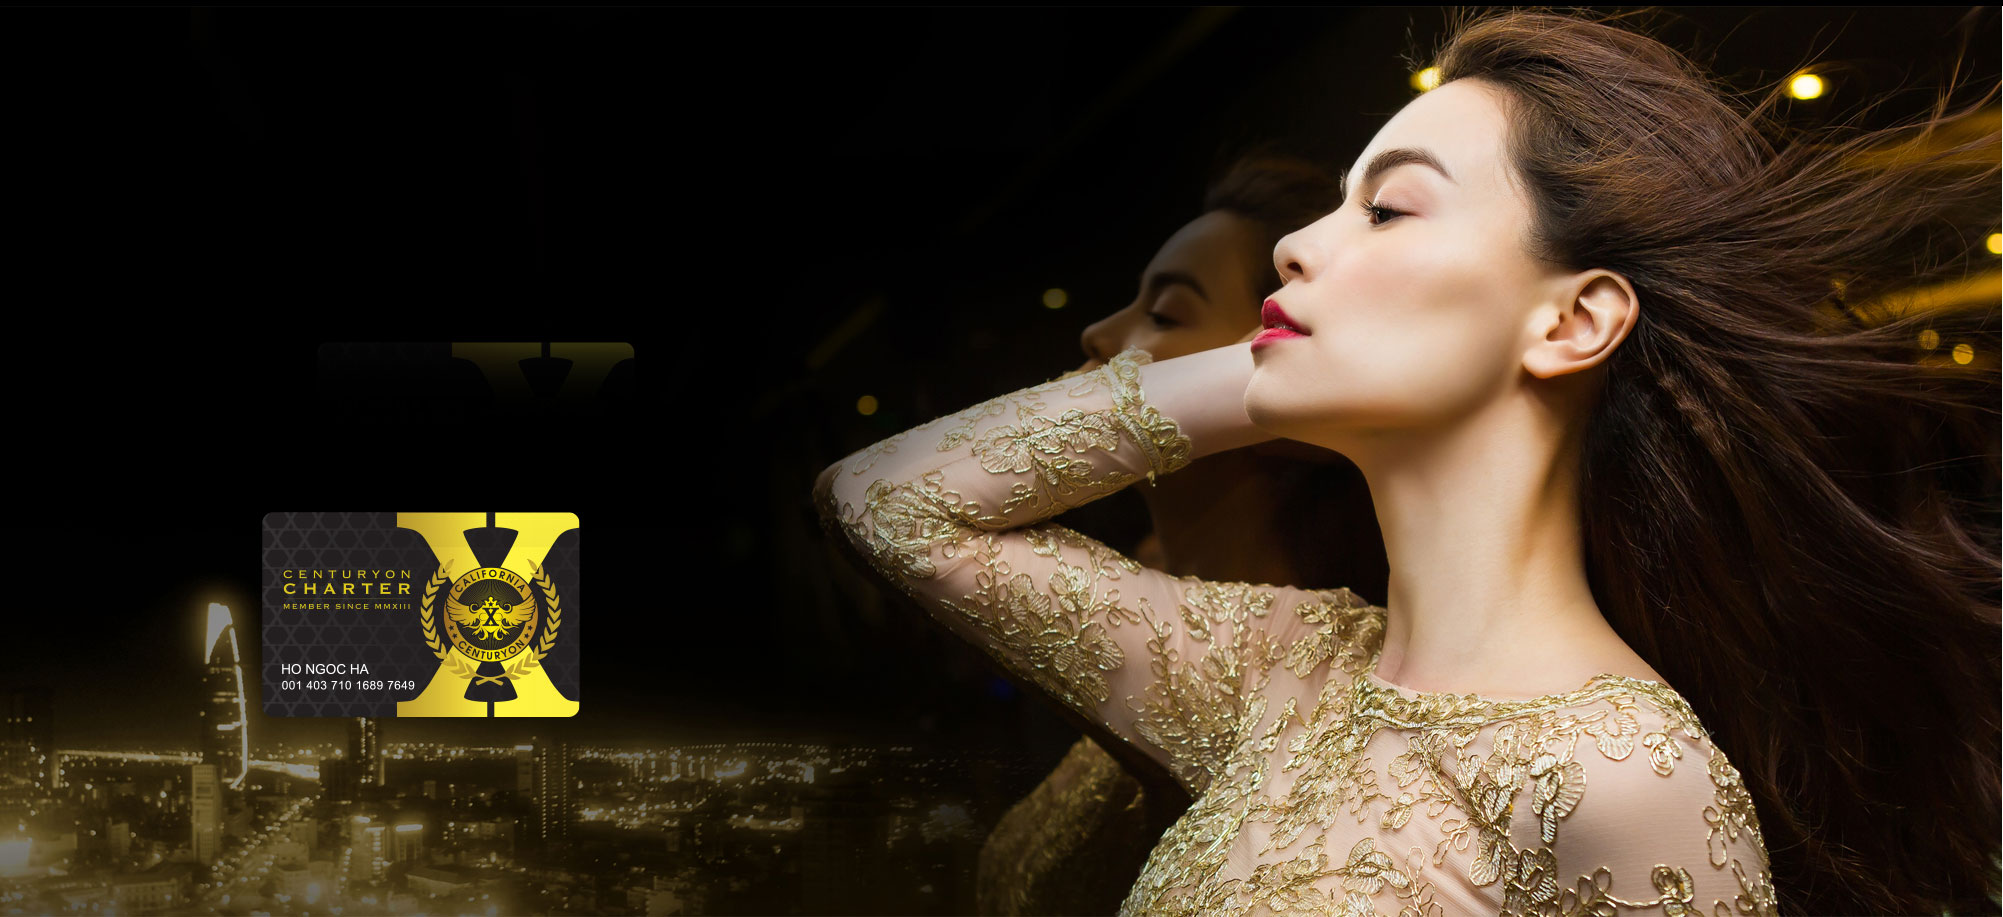
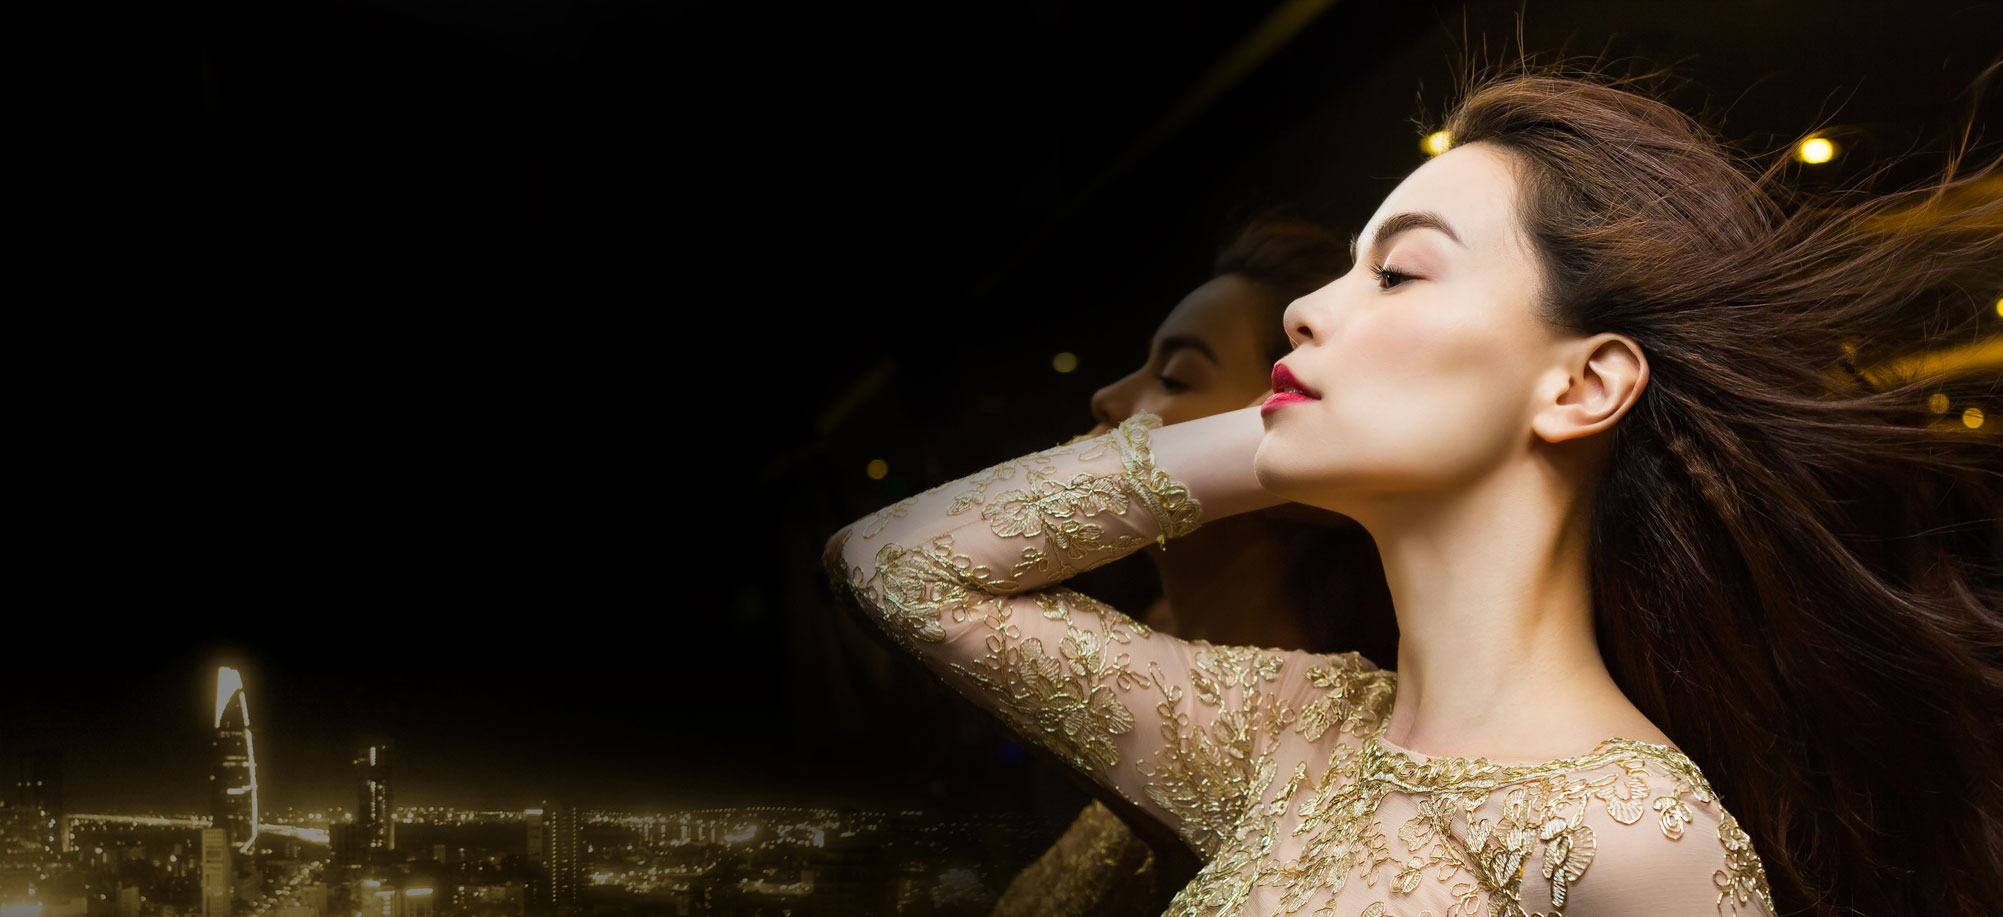
fixes

diff --git a/users/SongPham/cfyc/app/stylesheets/files/centuryon-membership.scss b/users/SongPham/cfyc/app/stylesheets/files/centuryon-membership.scss
@@ -2,9 +2,22 @@
 .container-fluid.page.centuryon-membership-cfy-page {
 	background-color: #000 !important;
 	color: #fff;
+	.mobile {display: none;
+		@media (max-width:767px) {
+			display: block;
+		}
+	}
+	.desktop {
+		@media (min-width:768px) {
+			display: block;
+		}
+		@media (max-width:767px) {
+			display: none;
+		}
+	}
 	h2 {color: #f7e300; font-weight: 100; font-size: 25px; text-align: center; padding: 10px 0; text-transform: uppercase; border-bottom: 0px;line-height: 1.2em;}
 	.divider {margin: 20px 0;}
-	h4 {color: #f7e300; font-weight: 100; font-size: 25px;}
+	h4 {color: #f7e300; font-weight: 100; font-size: 25px; margin: 20px auto;}
 	img.quote-left {
 		position: absolute; left:3%; top:22%; width: 40px;
 
@@ -18,12 +31,12 @@
 	.text-box { max-width: 90%; margin: 0 auto;}
 
 	.row.banner-top {
-		@media (min-width:568px){
+		@media (min-width:768px){
 		background:#000 url(../img/centuryon-membership/centuryon-membership-header.jpg) center top no-repeat;
 		position: relative;
 		background-size: 100%; min-height: 550px;
 		}
-		   @media (max-width: 567px) {
+		   @media (max-width: 767px) {
 		   min-height: 600px;
 		   position: relative;
 		   background:#000 url(../img/centuryon-membership/m-centuryon-membership-header.jpg) center top no-repeat;
@@ -33,6 +46,9 @@
 		   min-height: 600px;
 		   background:#000 url(../img/centuryon-membership/m-centuryon-membership-header.jpg) center top no-repeat;
 		   background-size: contain;
+		   }
+		   @media (max-width:320px) {
+			   min-height: 500px;
 		   }
 		.cta {
 			max-width: 40vw;
@@ -44,6 +60,7 @@
 			width: 100%;
 			max-width: 500px;
 			margin-left: auto;
+			margin: 75% auto 0px auto;
 
 			padding: 0 10px;
 			position: relative;
@@ -54,6 +71,9 @@
 				position: absolute;
 
 				bottom: 0px;
+			 }
+			 @media (max-width:320px) {
+				 
 			 }
 
 		 fieldset {
@@ -132,7 +152,7 @@
 	            }
 	        }
 		}
-
+		.card {margin: 50px auto; width: 50%;}
 	}
 
 	.row.video {
@@ -146,12 +166,14 @@
 	}
 
 	.row.section3 {
-		background: url(../img/centuryon-membership/section1-bg.jpg) 0 205px no-repeat; background-size:100%;
+		background: url() center top no-repeat; background-size:100%;
+		
 		.col-md-10.col-centered {
 		p {text-align: center; text-transform: uppercase;}
 		}
 		.content {
-			margin: 200px auto 0px auto; background:none; background: rgba(0,0,0, .6); width: 75%;position: relative; padding:50px 20px;
+			margin:20px auto 0px auto; background:none; background: rgba(0,0,0, .6); width: 75%;position: relative; padding:50px 20px;
+			h4 {color: $white;}
 			}
 		}
 
@@ -230,8 +252,8 @@
 		}
 
 	.row.section3 {
-		background: url(../img/centuryon-membership/m-section1-bg.jpg) 0 255px no-repeat; background-size:100%;
-	.content { margin: 100px auto 0px auto; width: 100%;
+		background: url() center top no-repeat; background-size:100%;
+	.content { margin: 20px auto 0px auto; width: 100%;
 	h4 { padding-top: 20px;}
 
 	}
@@ -273,7 +295,7 @@
 .container-fluid.page.centuryon-membership-cfy-page {
 	.row.section3 {
 
-		.content { margin: 200px auto 0px auto; width: 100%; padding: 0px 10px 20px 10px;
+		.content { margin: 20px auto 0px auto; width: 100%; padding: 0px 10px 20px 10px;
 			img.quote-left {left:0%; top:0%; ;}
 			img.quote-right {right:3%; bottom:9%;}
 			}

diff --git a/users/SongPham/cfyc/pages/centuryon-memberships.php b/users/SongPham/cfyc/pages/centuryon-memberships.php
@@ -53,6 +53,7 @@
 	                <a class="" href="<?php echo USER_BASE_URL ?>/vip-members<?php echo getSuffix('lang=' . $LANG) ?>" title="Discover Cali Dance"><?php echo LANG_CENTURYON_MEMBERSHIPS_BANNER_CTA ?> </a>
 	                </div>
 	        </fieldset>
+	        <img src="<?php echo USER_BASE_URL ?>/img/centuryon-membership/centuryon-card.jpg" class="desktop img-responsive card">
 		</div>
 	</div>
 
@@ -96,12 +97,14 @@
     		<h2><?php echo LANG_CENTURYON_MEMBERSHIPS_ID_3_MAIN_TITLE_1 ?></h2>
 			<div class="col-md-10 col-centered">
 			</div>
+			<img src="<?php echo USER_BASE_URL ?>/img/centuryon-membership/section1-bg.jpg" class="desktop img-responsive">
+				<img src="<?php echo USER_BASE_URL ?>/img/centuryon-membership/m-section1-bg.jpg" class="mobile img-responsive">
 			<div class="content">
-				<img src="<?php echo USER_BASE_URL ?>/img/centuryon-membership/quote.png" class="quote-left">
 				<div class="text-box">
+				
+
 					<h4><?php echo LANG_CENTURYON_MEMBERSHIPS_ID_3_QUOTE ?></h4>
 				</div>
-				<img src="<?php echo USER_BASE_URL ?>/img/centuryon-membership/quote.png" class="quote-right">
 			</div>
 			    	</div>
     </div> <!-- end section_3 -->
@@ -119,6 +122,8 @@
             	<img src="<?php echo USER_BASE_URL ?>/img/centuryon-membership/centuryon-right2.jpg" class="img-responsive center-block">
             	<p><?php echo LANG_CENTURYON_MEMBERSHIPS_ID_4_IMG3_DESC ?></p>
             </div>
+            <img src="<?php echo USER_BASE_URL ?>/img/centuryon-membership/divider.jpg" class="img-responsive center-block divider">
+
             <h2><?php echo LANG_CENTURYON_MEMBERSHIPS_ID_4_MAIN_TITLE1 ?></h2>
             <h4 class="white"><?php echo LANG_CENTURYON_MEMBERSHIPS_ID_4_SUB_TITLE1 ?></h4>
   			<div class="col-md-3 col-centered col-xs-12">
@@ -140,7 +145,9 @@
     <div class="graphic-block">
         <div class="container-page">
             <div class="row row-centered">
-                <img src="<?php echo USER_BASE_URL ?>/img/centuryon-membership/headline.png" class="img-responsive center-block hidden-xs">
+                 <img src="<?php echo USER_BASE_URL ?>/img/centuryon-membership/divider.jpg" class="img-responsive center-block divider">
+
+            	<h4><?php echo LANG_CENTURYON_MEMBERSHIPS_ID_4_TITLE ?></h4>
             </div>
         </div>
     </div>
